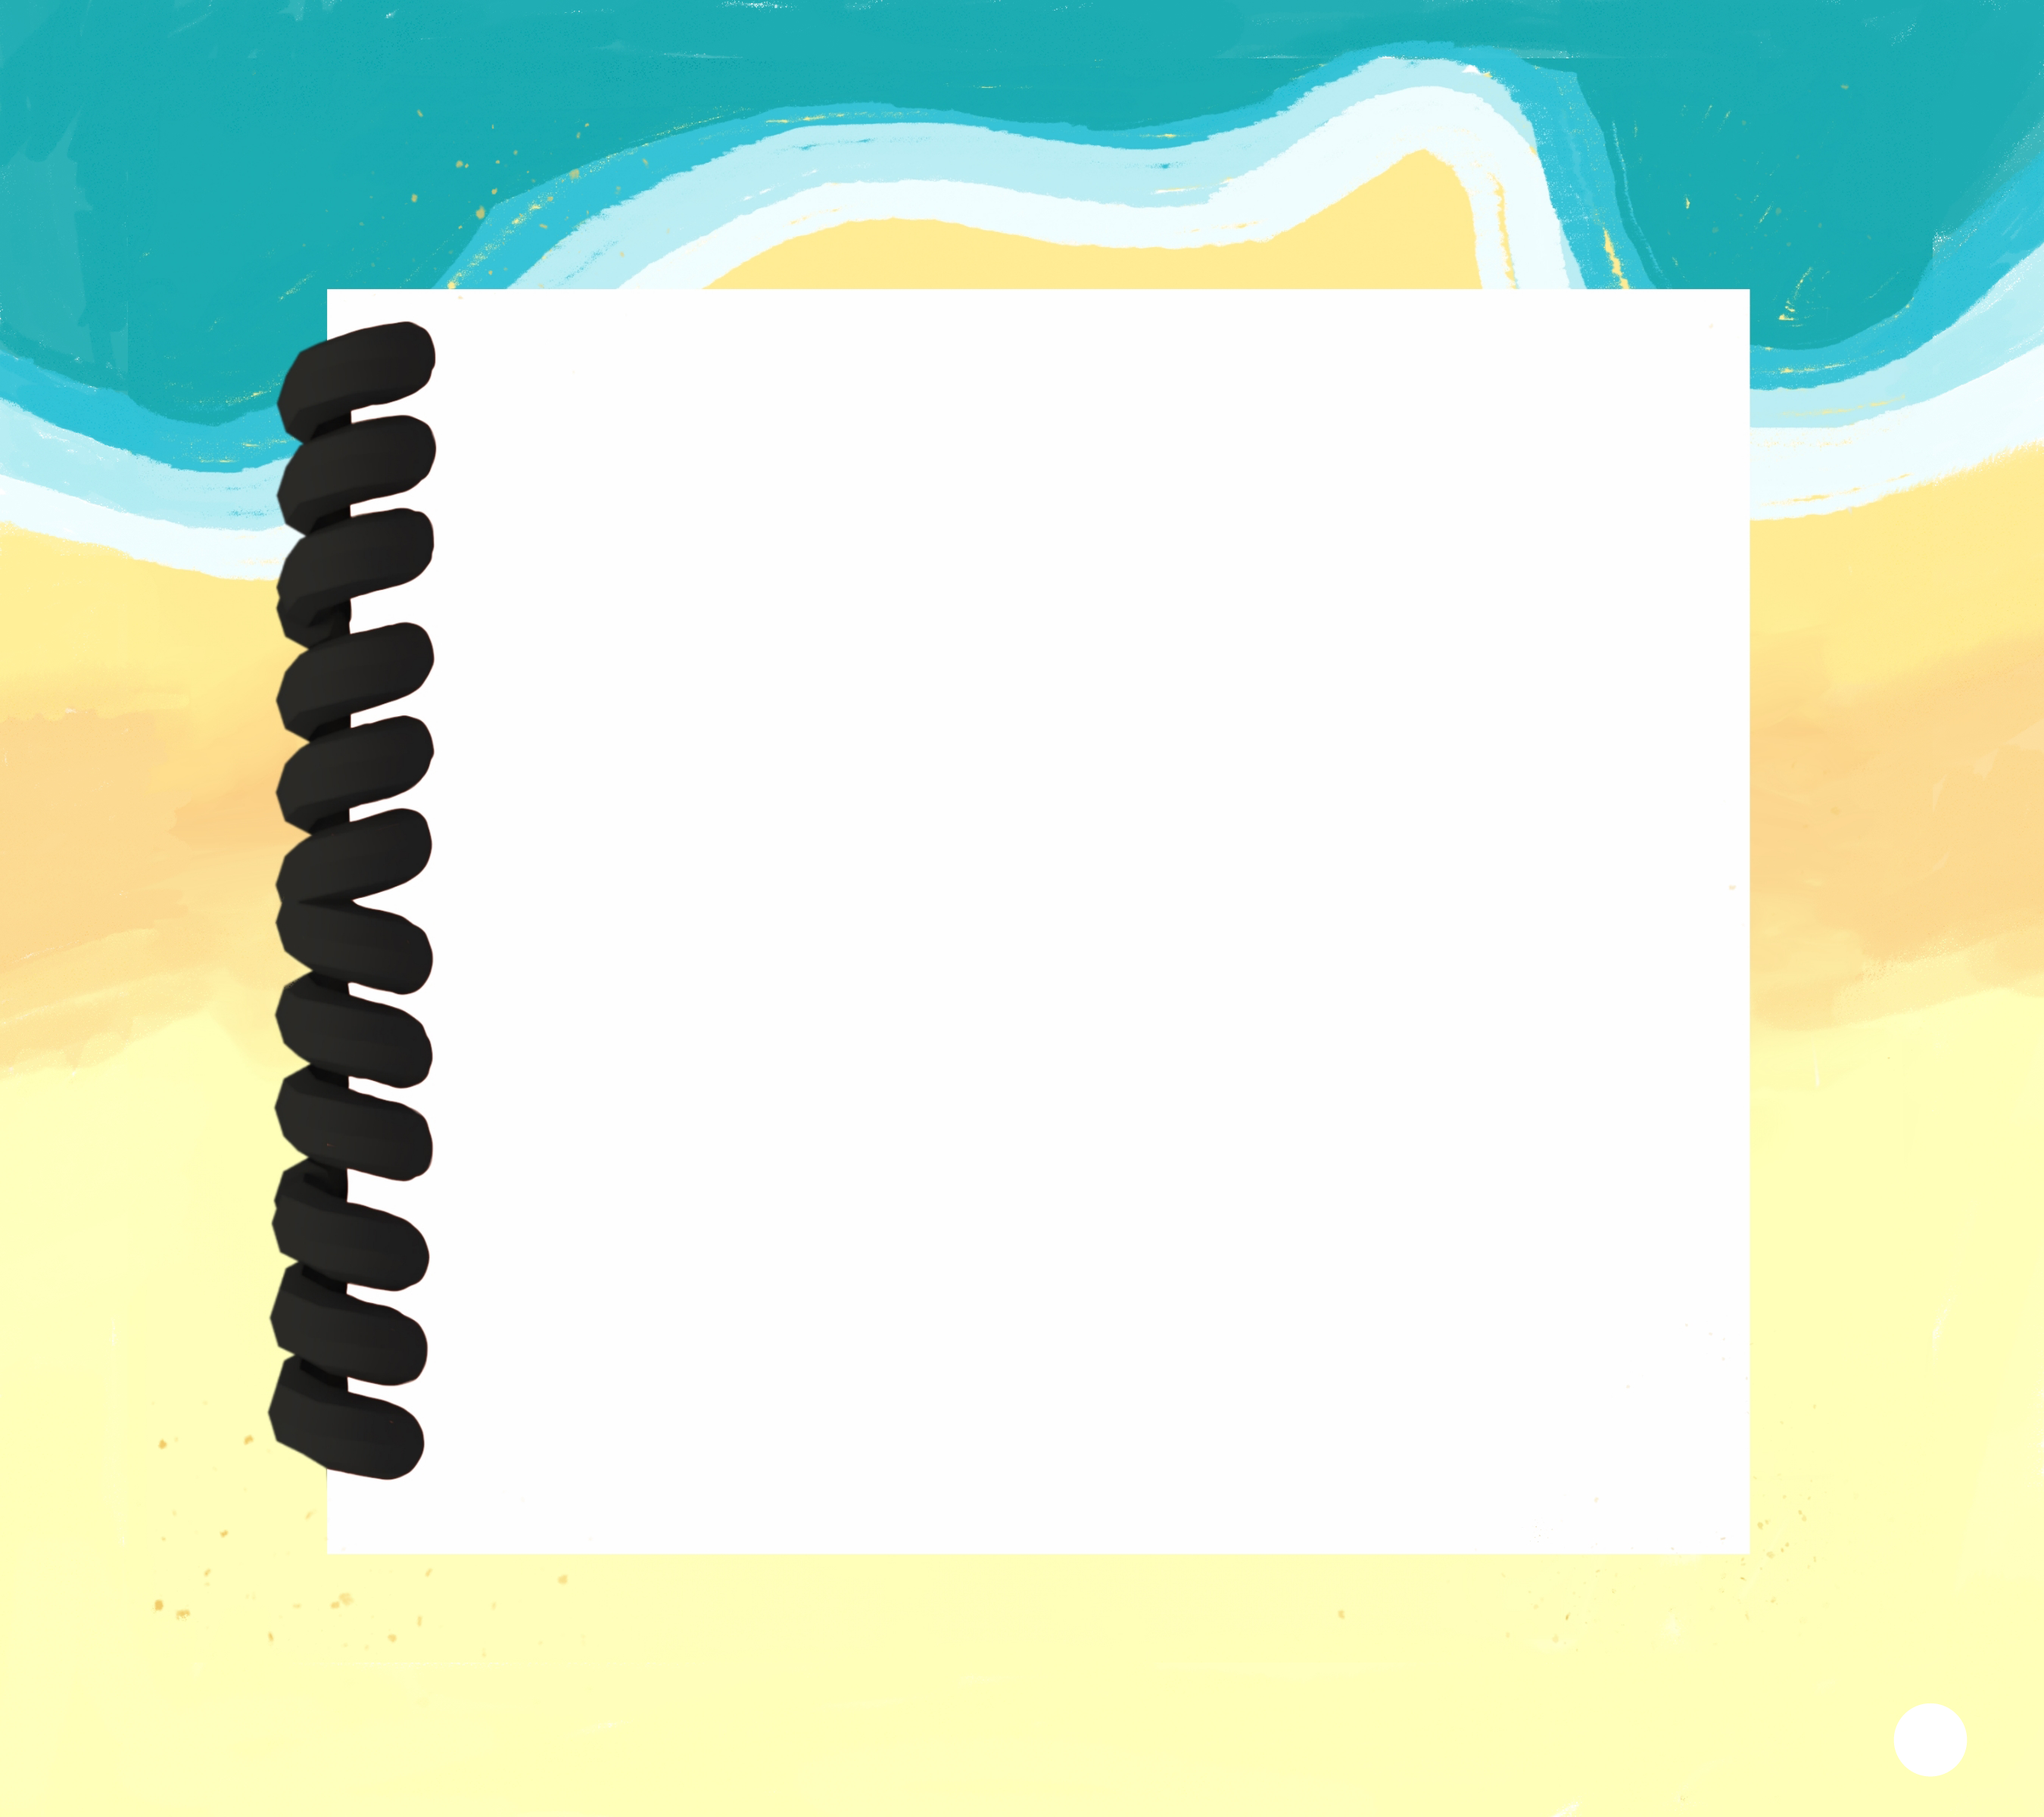
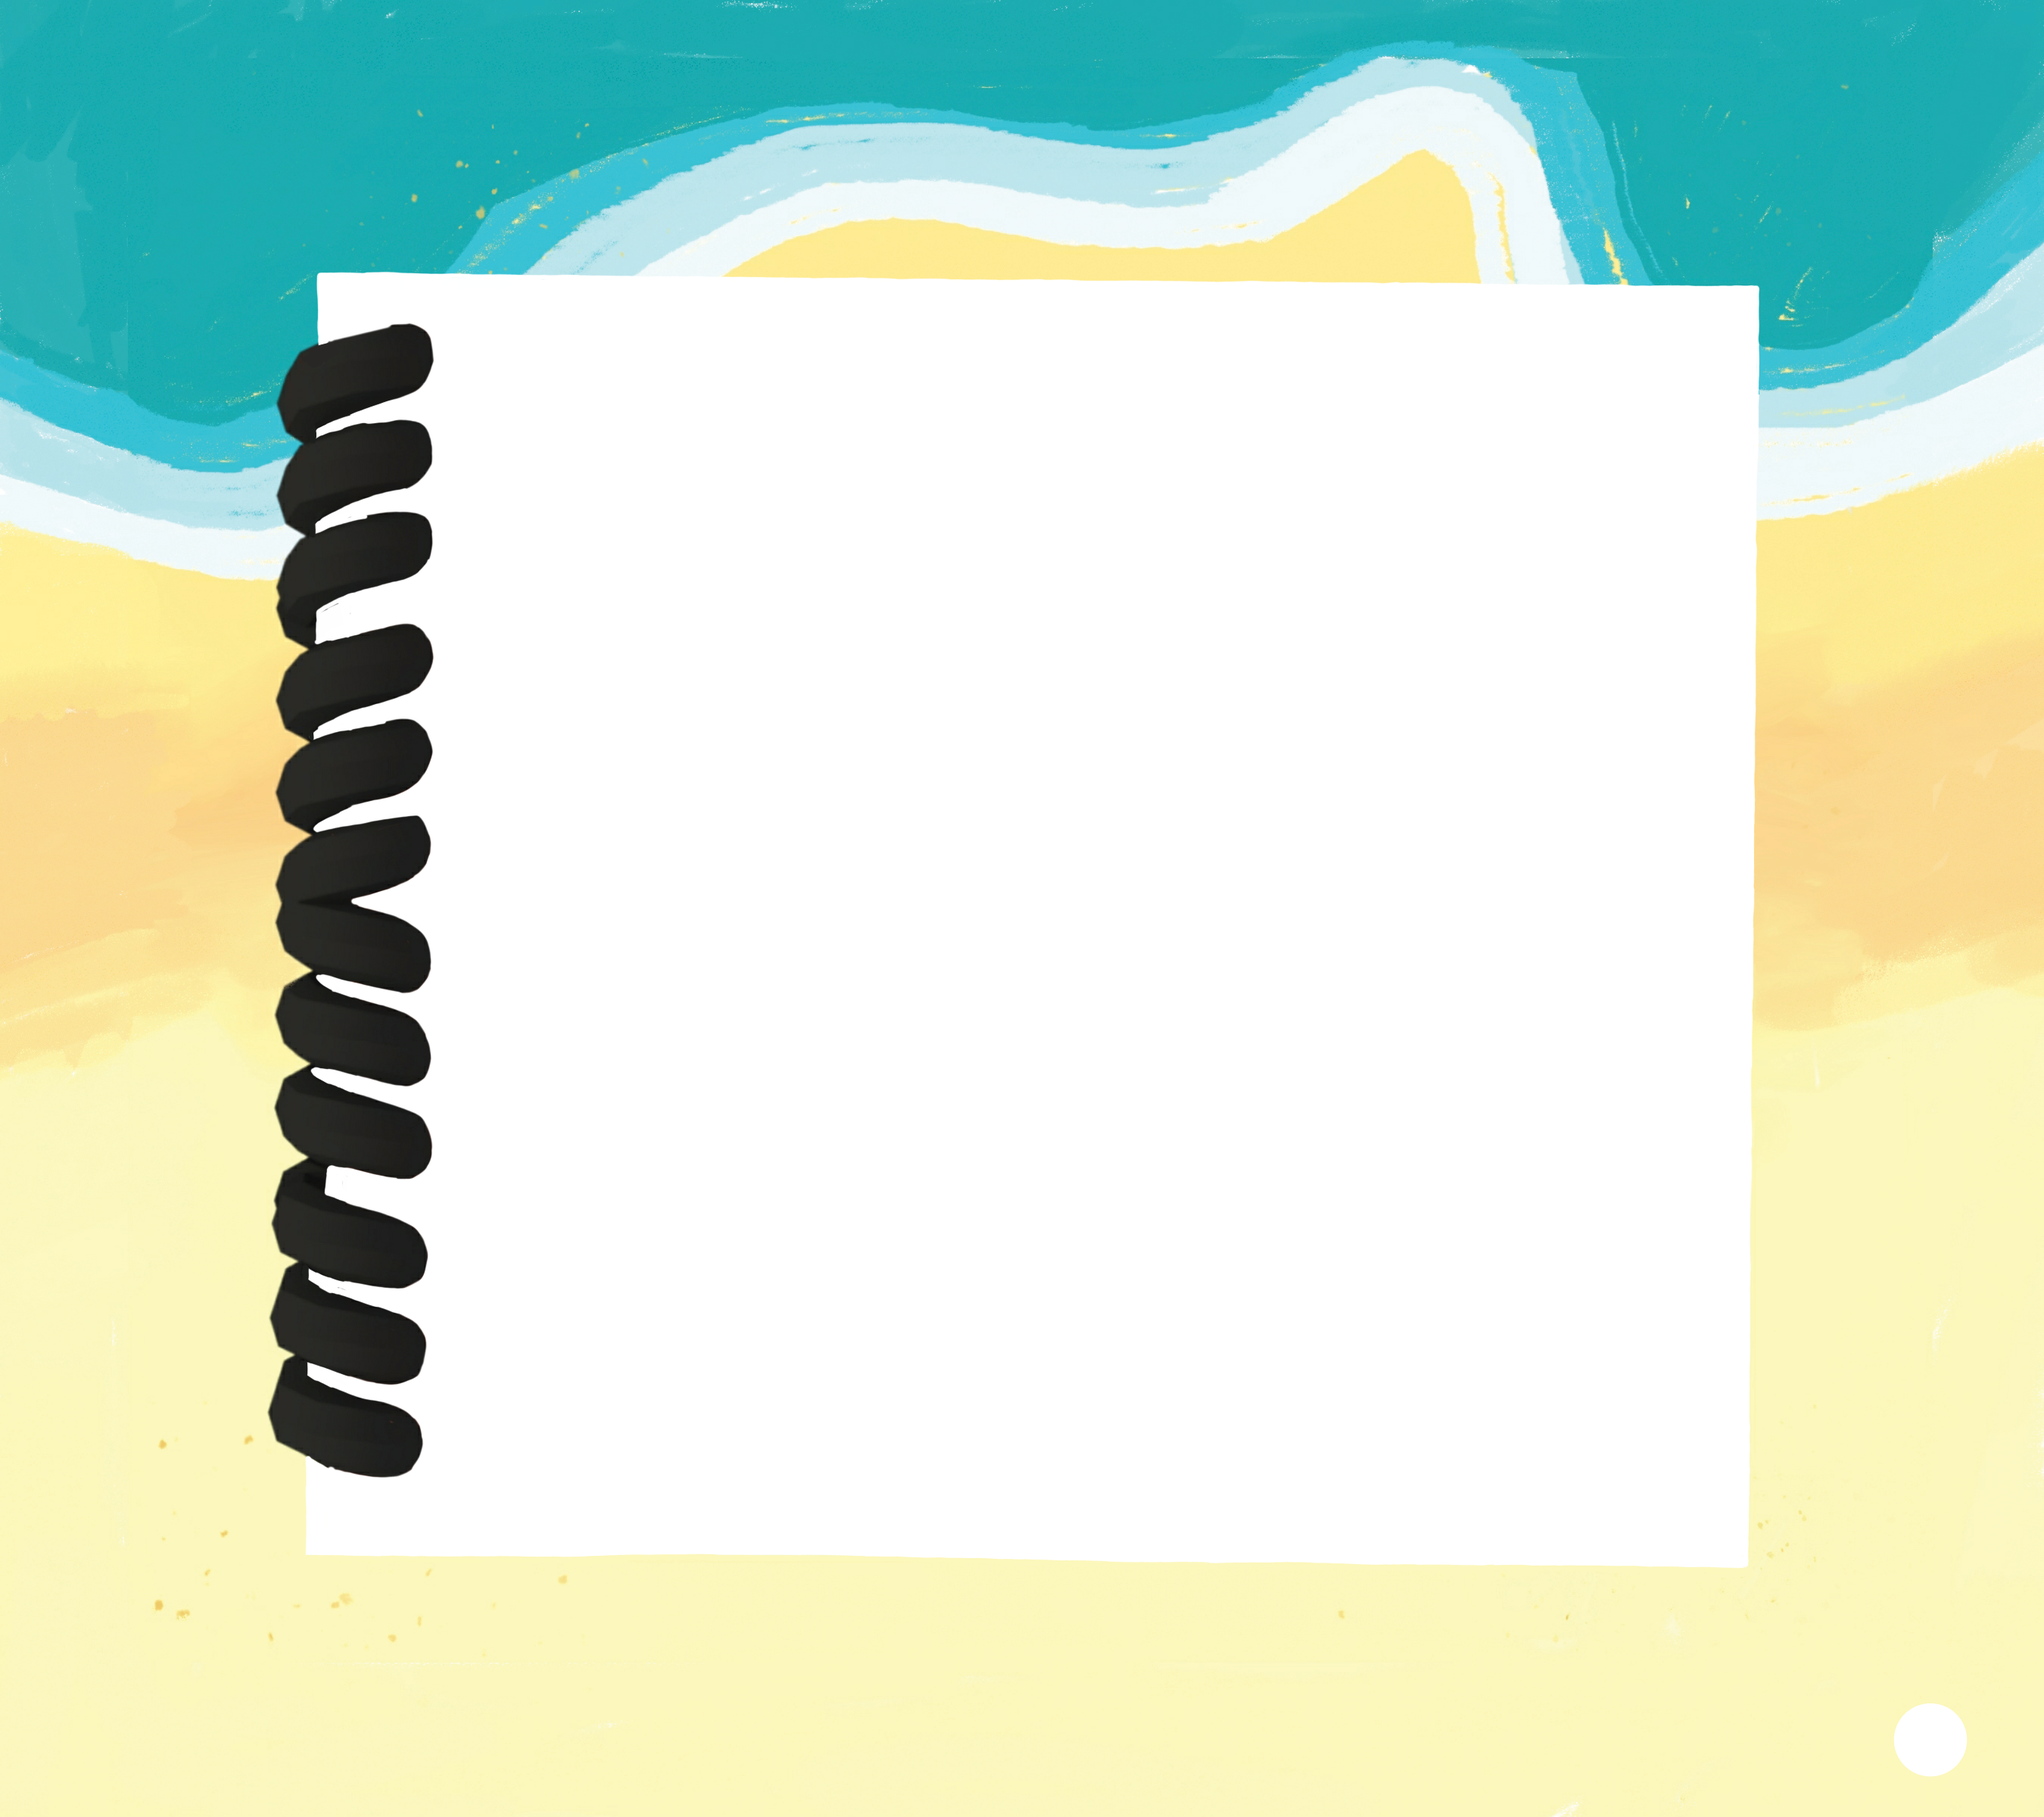
finished beach

diff --git a/resources/views/artbooks/level_1/artventure_to_the_beach/template.blade.php b/resources/views/artbooks/level_1/artventure_to_the_beach/template.blade.php
@@ -55,12 +55,12 @@
             z-index: 1;
         }
         .artwork{
-            height: 69.6%;
+            height: 71.5%;
             position: absolute;
             z-index: -1;
-            left: 16%;
-            top: 16%;
-            width: 69.6%;
+            left: 15%;
+            top: 15%;
+            width: 71%;
         }
         .page_break { 
             page-break-before: always;
@@ -83,15 +83,15 @@
 </head>
 
 <body>
-    <!-- <div style="position: relative;">
+    <div style="position: relative;">
         <img src="{{ public_path('/images/artbook/templates/level_1/artventure_to_the_beach/cover.jpg') }}" style="width: 100%">
         <div style="position: absolute; top: 12.1%; left: 50%; transform: translate(-50%, -50%); z-index: 1;">
             <p class="candy_beans" style="text-align: center; font-size: 40px; color: #d95293; letter-spacing: 0em;">{{ $data['name'] }}'s</p>
         </div>
-    </div> -->
-    <!-- <div class="page_break"></div> -->
-    <!-- <div class="page_break"></div> -->
-    <!-- <div class="position: relative;">
+    </div>
+    <div class="page_break"></div>
+    <div class="page_break"></div>
+    <div class="position: relative;">
         <div style="position: absolute; top: 50%; left: 50%; transform: translate(-50%, -50%); z-index: 1;">
             <div style="text-align: center; margin-bottom: 30px;">
                 <span class="century_gothic bold" style="font-size: 40px; letter-spacing: 0.05rem; line-height: 2rem;">{{ $data['name'] }}'s Artventure to the Beach</span>
@@ -110,9 +110,9 @@
                 Copyright © 2023 ALFA and Friends Sdn. Bhd. All rights reserved. All characters and story contained therein this book is the sole property of the publisher. No part of the content may be reproduced or transmitted in any form or by means, electronic or mechanical, including photocopying, recording, or by any information storage and retrievel system without written permission.
             </p>
         </div>
-    </div> -->
-    <!-- <div class="page_break"></div> -->
-    <!-- <div class="artwork_container">
+    </div>
+    <div class="page_break"></div>
+    <div class="artwork_container">
         <img src="{{ public_path('/images/artbook/templates/level_1/artventure_to_the_beach/page_1.jpg') }}" class="artwork_area">
         <div style="position: absolute; top: 18%; left: 39%; transform: translate(-50%, -50%); z-index: 1;">
             <p class="century_gothic" style="text-align: center; font-size: 19px; letter-spacing: 0.05em; line-height: 1.1rem">
@@ -130,9 +130,9 @@
                 1
             </p>
         </div>
-    </div> -->
-    <!-- <div class="page_break"></div> -->
-    <!-- <div class="artwork_container">
+    </div>
+    <div class="page_break"></div>
+    <div class="artwork_container">
         <img src="{{ public_path('/images/artbook/templates/level_1/artventure_to_the_beach/page_2.jpg') }}" class="artwork_area">
         <div style="position: absolute; top: 14%; left: 50%; transform: translate(-50%, -50%); z-index: 1;">
             <p class="century_gothic" style="text-align: center; font-size: 19px; letter-spacing: 0.05em; line-height: 1.1rem">
@@ -158,9 +158,9 @@
                 2
             </p>
         </div>
-    </div> -->
-    <!-- <div class="page_break"></div> -->
-    <!-- <div class="artwork_container">
+    </div>
+    <div class="page_break"></div>
+    <div class="artwork_container">
         <img src="{{ public_path('/images/artbook/templates/level_1/artventure_to_the_beach/page_3.png') }}" class="artwork_area">
         <img src="{{ public_path('/images/artbook/templates/level_1/artventure_to_the_beach/level_1.jpg') }}" style="
             height: 100%;
@@ -189,9 +189,9 @@
                 3
             </p>
         </div>
-    </div> -->
-    <!-- <div class="page_break"></div> -->
-    <!-- <div class="artwork_container">
+    </div>
+    <div class="page_break"></div>
+    <div class="artwork_container">
         <img src="{{ public_path('/images/artbook/templates/level_1/artventure_to_the_beach/page_4.jpg') }}" class="artwork_area">
         <div style="position: absolute; top: 14%; left: 40%; transform: translate(-50%, -50%); z-index: 1;">
             <p class="century_gothic" style="text-align: center; font-size: 19px; letter-spacing: 0.05em; line-height: 1.1rem">
@@ -214,9 +214,9 @@
                 4
             </p>
         </div>
-    </div> -->
-    <!-- <div class="page_break"></div> -->
-    <!-- <div class="artwork_container">
+    </div>
+    <div class="page_break"></div>
+    <div class="artwork_container">
         <img src="{{ public_path('/images/artbook/templates/level_1/artventure_to_the_beach/page_5.jpg') }}" class="artwork_area">
         <img src="{{ public_path('/images/artbook/templates/level_1/artventure_to_the_beach/level_1.jpg') }}" style="
             height: 100%;
@@ -249,9 +249,9 @@
                 5
             </p>
         </div>
-    </div> -->
-    <!-- <div class="page_break"></div> -->
-    <!-- <div class="artwork_container">
+    </div>
+    <div class="page_break"></div>
+    <div class="artwork_container">
         <img src="{{ public_path('/images/artbook/templates/level_1/artventure_to_the_beach/page_6.png') }}" class="artwork_area">
         <img src="{{ public_path('/images/artbook/templates/level_1/artventure_to_the_beach/level_1.jpg') }}" class="artwork">
         <div style="position: absolute; top: 10%; left: 20%; transform: translate(-10%, -50%); z-index: 1;">
@@ -265,9 +265,9 @@
                 6
             </p>
         </div>
-    </div> -->
-    <!-- <div class="page_break"></div> -->
-    <!-- <div class="artwork_container">
+    </div>
+    <div class="page_break"></div>
+    <div class="artwork_container">
         <img src="{{ public_path('/images/artbook/templates/level_1/artventure_to_the_beach/page_7.jpg') }}" class="artwork_area">
         <div style="position: absolute; top: 16%; left: 19%; transform: translate(-20%, -50%); z-index: 1;">
             <p class="century_gothic" style="text-align: left; font-size: 19px; letter-spacing: 0.05em; line-height: 1.1rem">
@@ -283,9 +283,9 @@
                 7
             </p>
         </div>
-    </div> -->
-    <!-- <div class="page_break"></div> -->
-    <!-- <div class="artwork_container">
+    </div>
+    <div class="page_break"></div>
+    <div class="artwork_container">
         <img src="{{ public_path('/images/artbook/templates/level_1/artventure_to_the_beach/page_8.png') }}" class="artwork_area">
         <img src="{{ public_path('/images/artbook/templates/level_1/artventure_to_the_beach/level_1.jpg') }}" class="artwork">
         <div style="position: absolute; top: 10%; left: 30%; transform: translate(-20%, -50%); z-index: 1;">
@@ -300,8 +300,8 @@
                 8
             </p>
         </div>
-    </div> -->
-    <!-- <div class="page_break"></div> -->
+    </div>
+    <div class="page_break"></div>
     <div class="artwork_container">
         <img src="{{ public_path('/images/artbook/templates/level_1/artventure_to_the_beach/page_9.jpg') }}" class="artwork_area">
         <div style="position: absolute; top: 16%; left: 13%; transform: translate(-5%, -50%); z-index: 1;">
@@ -322,6 +322,52 @@
         <div class="page_number_left">
             <p class="century_gothic" style="text-align: center; font-size: 17px; letter-spacing: 0.05em; line-height: 1.25rem">
                 9
+            </p>
+        </div>
+    </div>
+    <div class="page_break"></div>
+    <div class="artwork_container">
+        <img src="{{ public_path('/images/artbook/templates/level_1/artventure_to_the_beach/page_10.png') }}" class="artwork_area">
+        <img src="{{ public_path('/images/artbook/templates/level_1/artventure_to_the_beach/level_1.jpg') }}" class="artwork">
+        <div style="position: absolute; top: 10%; left: 5%; transform: translate(-2%, -50%); z-index: 1;">
+            <p class="century_gothic" style="text-align: center; font-size: 19px; letter-spacing: 0.05em; line-height: 1.1rem">
+                Just when their painting is all done,<br>
+                the Sun bids them farewell and goes down the horizon line.<br>
+                “Bye-bye Mr.Sun! Till we meet again!” Says <span style="color: #d95293">{{ $data['name'] }}</span> as he waves his hand.<br>
+            </p>
+        </div>
+        <div style="position: absolute; top: 90%; left: 20%; transform: translate(-10%, -50%); z-index: 1;">
+            <p class="century_gothic" style="text-align: center; font-size: 19px; letter-spacing: 0.05em; line-height: 1.1rem">
+                The red glow has washed away from the sky,<br>
+                but its colours remain warm inside their sketchbooks and hearts.
+            </p>
+        </div>
+        <div style="position: absolute; top: 95.6%; right: 3.15%; transform: translate(-50%, -50%); z-index: 1;">
+            <p class="century_gothic" style="text-align: center; font-size: 17px; letter-spacing: 0.05em; line-height: 1.25rem">
+                10
+            </p>
+        </div>
+    </div>
+    <div class="artwork_container">
+        <div style="position: absolute; top: 50%; left: 50%; transform: translate(-50%, -50%); z-index: 1;">
+            <p class="century_gothic" style="text-align: center; font-size: 22px; letter-spacing: 0.05em; line-height: 1.1rem">
+                The end.
+            </p>
+        </div>
+    </div>
+    <div class="page_break"></div>
+    <div class="artwork_container">
+        <img src="{{ public_path('/images/artbook/templates/level_1/artventure_to_the_beach/page_11.jpg') }}" class="artwork_area">
+        <div style="font-size: 26px; text-align: center; letter-spacing: 0.05em; position: absolute; top: 28%; left: 50%; transform: translate(-50%, -50%); z-index: 1;">
+            <p class="candy_beans" style="display: inline-block; color: #f68b22;">Artventure</p> 
+            <p class="candy_beans" style="display: inline-block; color: #13a8b5;">to the Beach</p>
+        </div>
+        <div style="text-align: center; letter-spacing: 0em; position: absolute; top: 47%; left: 42%; transform: translate(-35%, -50%); z-index: 1;">
+            <p class="century_gothic" style="text-align: center; font-size: 15px; letter-spacing: 0.05em; line-height: 0.95rem">
+                <span style="color: #d95293">{{ $data['name'] }}</span> went to the beach with Alfa and his friends. <span style="color: #d95293">{{ $data['name'] }}</span> learn that the beach elements can be drawn using lines.<br><br>
+                <span style="color: #d95293">{{ $data['name'] }}</span> learn how to draw a boat and a lighthouse using the shape tool.<br><br>
+                Then, they see a whale blowing and some other beach animals there. <span style="color: #d95293">{{ $data['name'] }}</span> take his time drawing the animals.<br><br>
+                Lastly, <span style="color: #d95293">{{ $data['name'] }}</span> complete his beach by drawing a coconut tree and a sandcastle
             </p>
         </div>
     </div>
